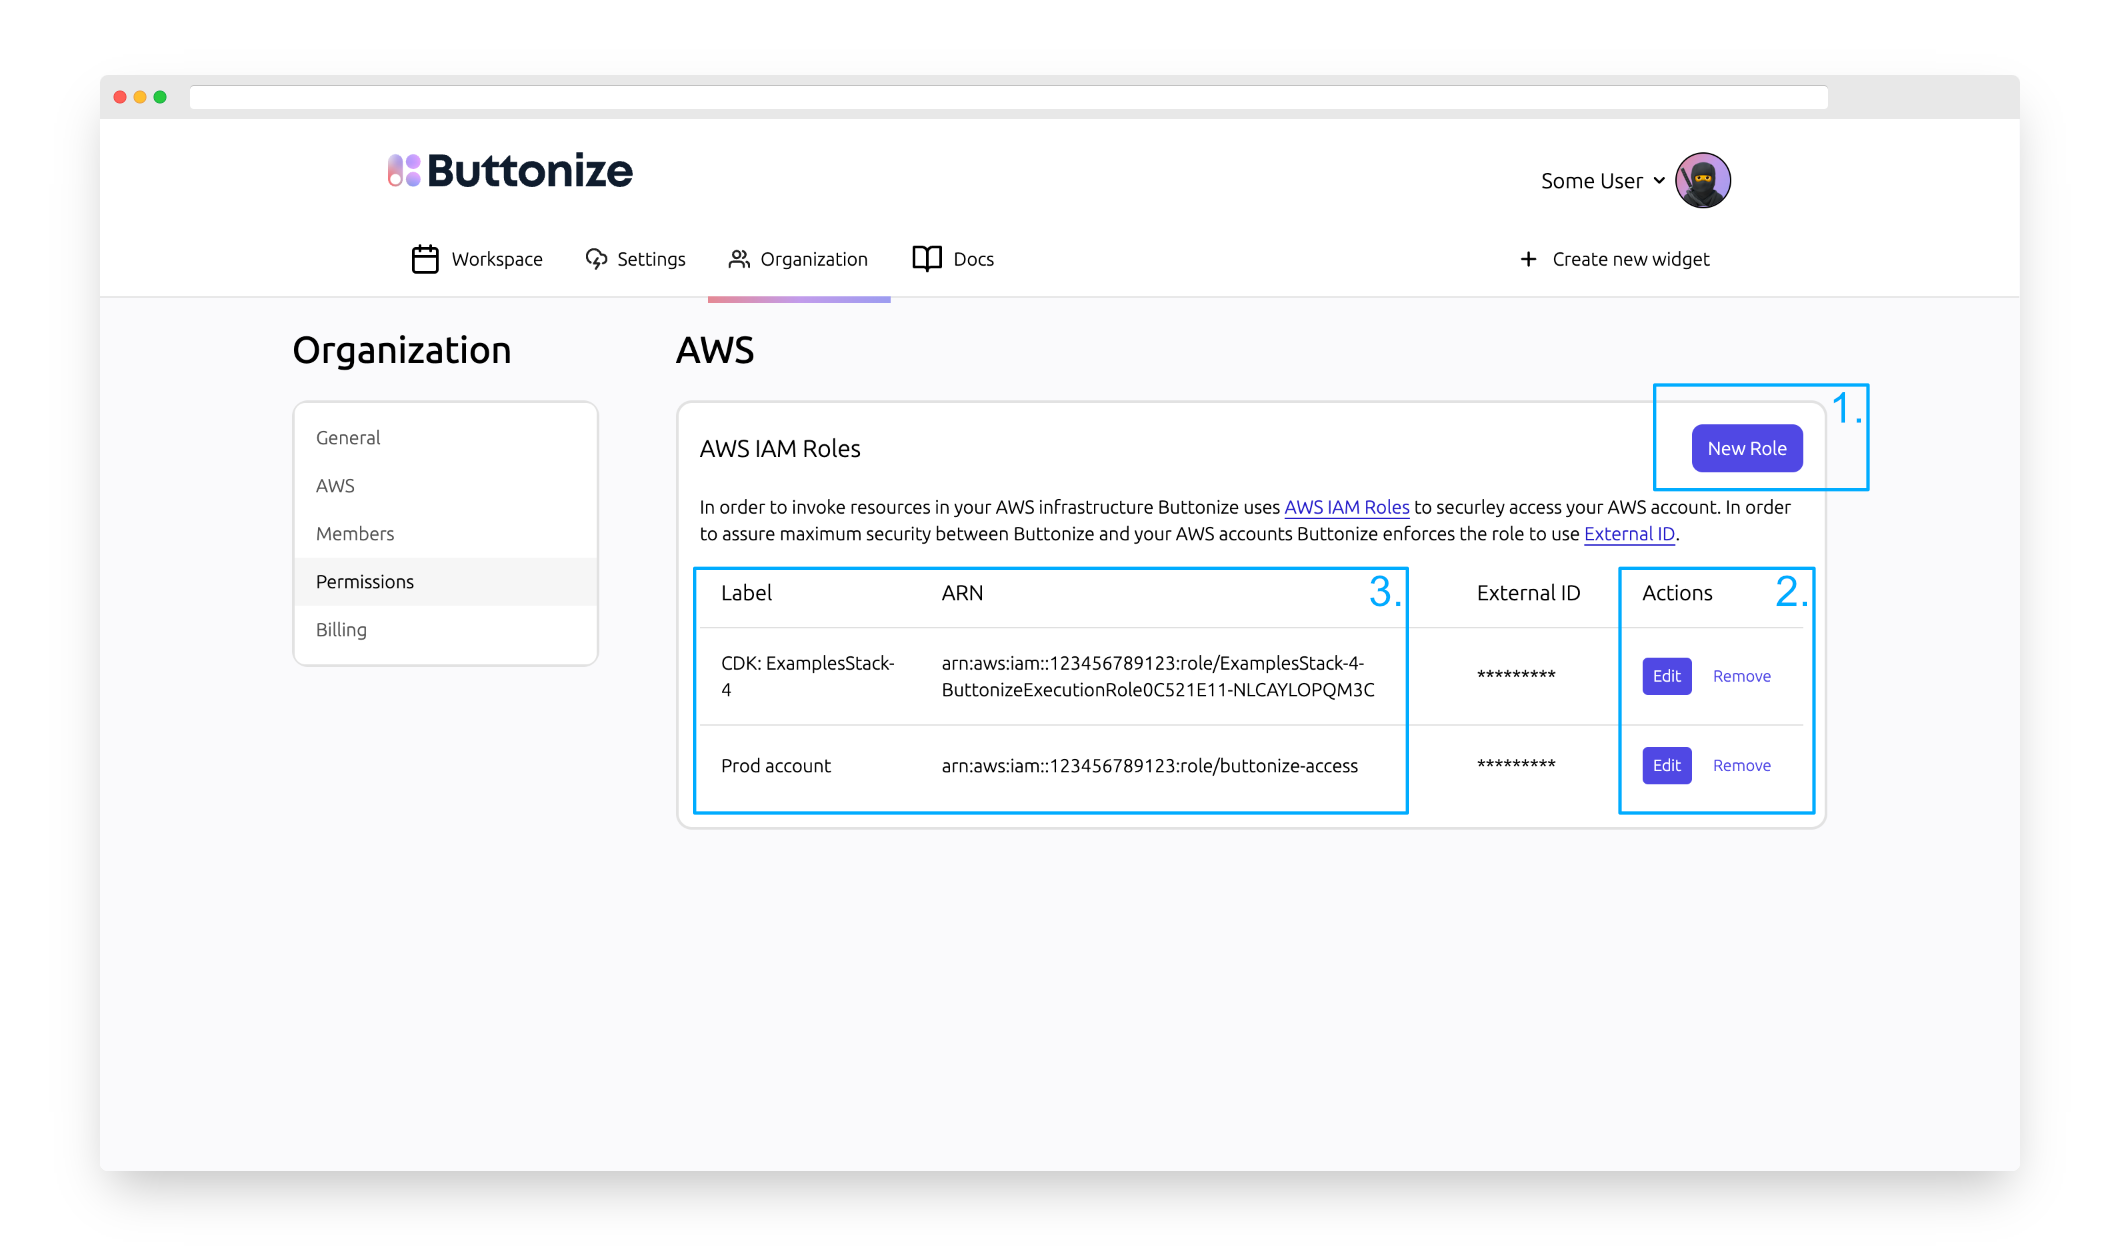
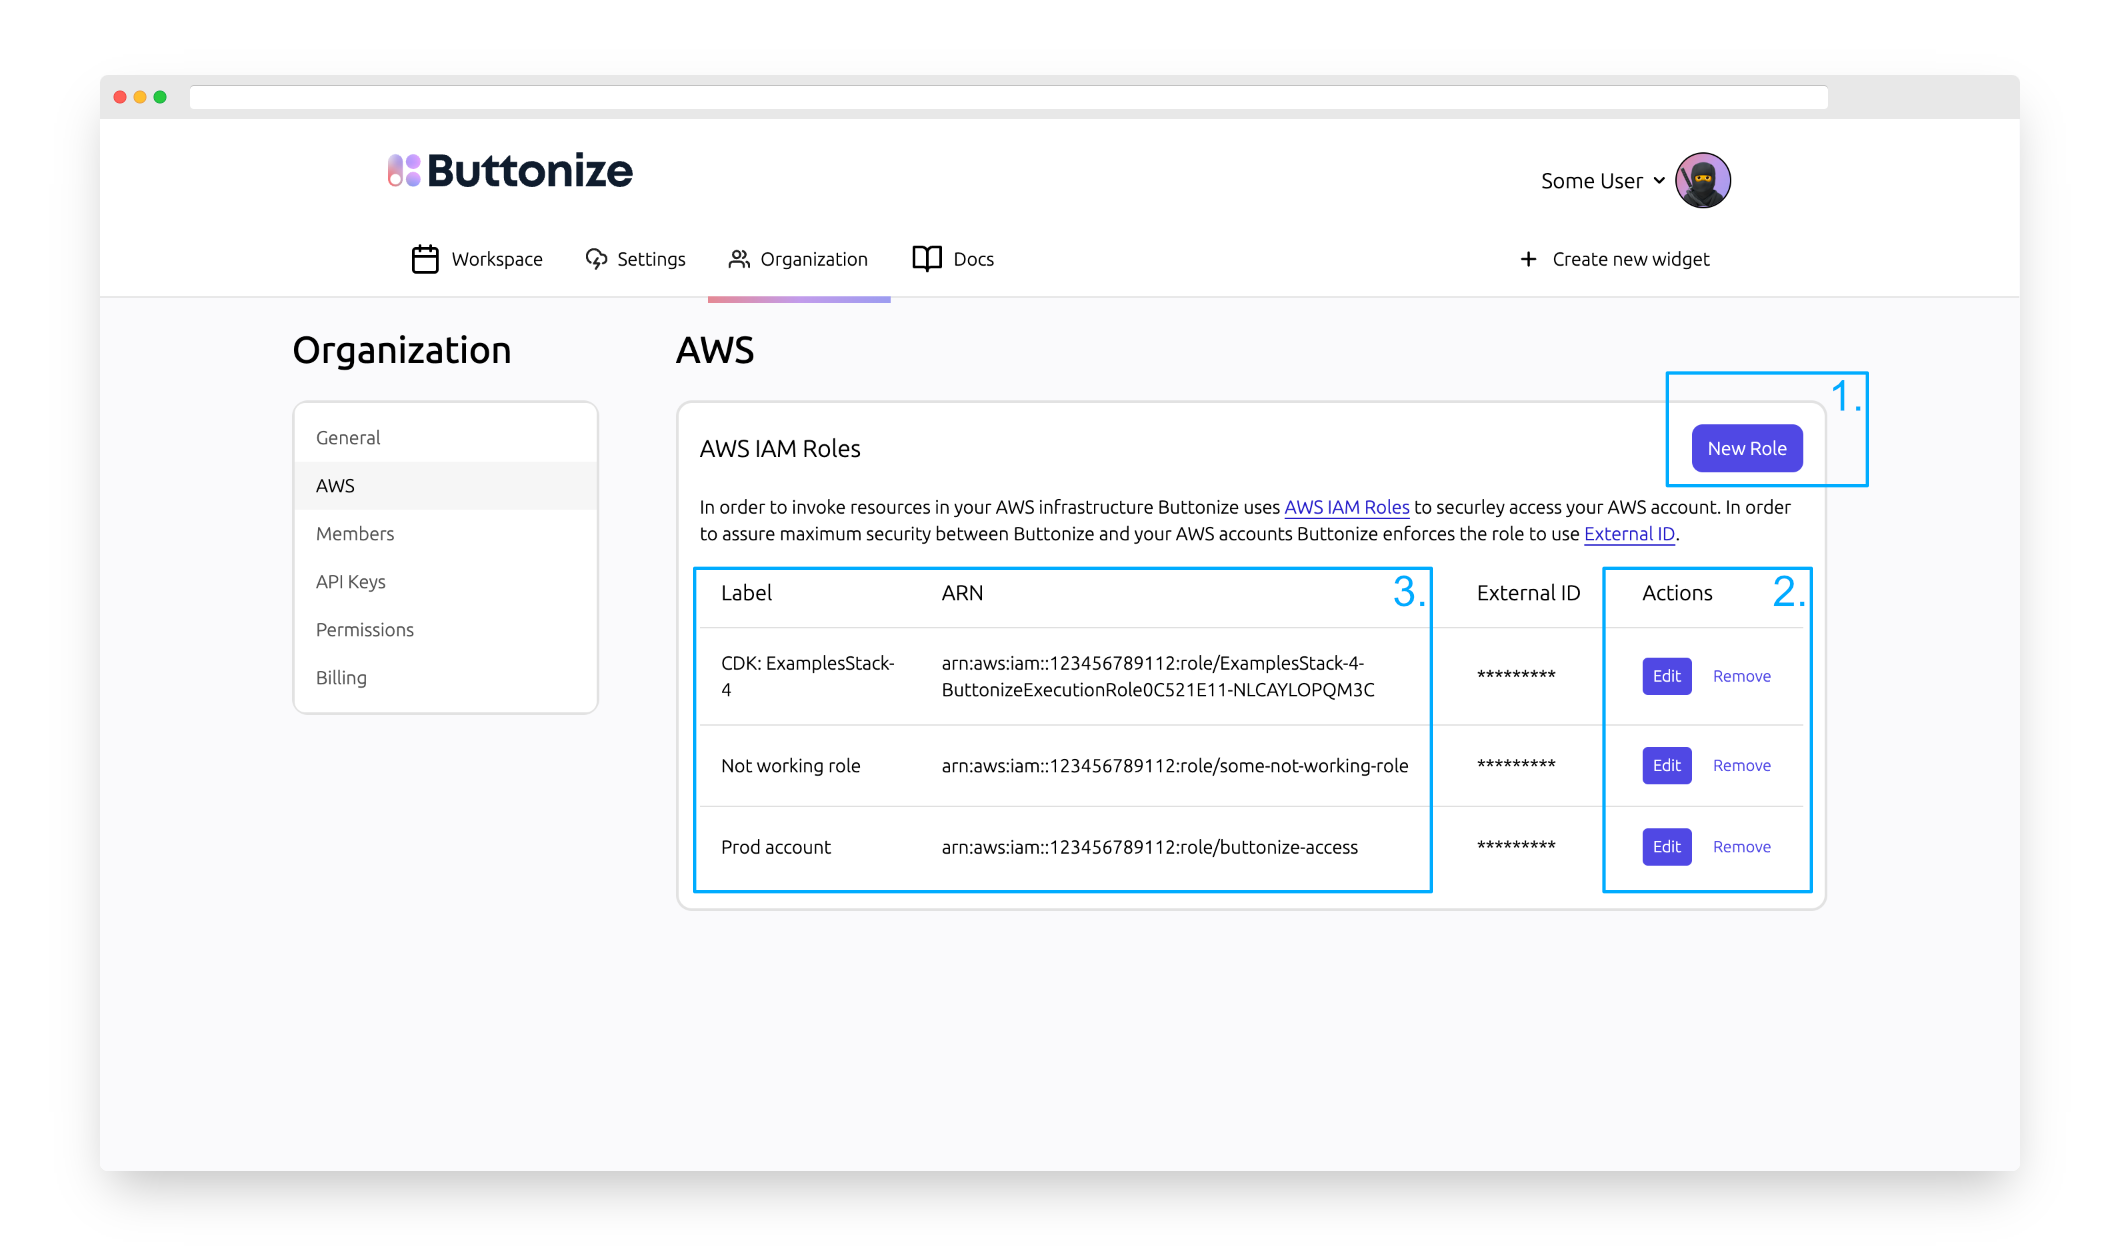
feat: add API keys docs

diff --git a/docs/docs/user-interface/organization.md b/docs/docs/user-interface/organization.md
@@ -8,7 +8,6 @@ description: Create and manage your organization workspace in Buttonize.
 Buttonize uses the widely used concept of grouping resources and users by "organization".
 An organization is usually created per a whole company or business unit. 
 
-
 ## Features
 
 ### General
@@ -21,6 +20,7 @@ An organization is usually created per a whole company or business unit.
 ![General settings](/img/ui/organization/general.png)
 
 ### Members
+
 Big part of Buttonize is collaboration between colleagues which are coding the widgets and those who are using them. You can invite your colleagues by email.
 
 ![Members](/img/ui/organization/members.png)
@@ -97,6 +97,29 @@ Make sure to **always use least privilege principle** when creating AWS IAM role
 5. External ID - External ID must have min length of 8 characters. If you use the CloudFormation template, Buttonize automatically generates External ID for you. Learn more about External ID in AWS IAM [here](https://docs.aws.amazon.com/IAM/latest/UserGuide/id_roles_create_for-user_externalid.html).
 
 ![AWS settings - choice](/img/ui/organization/aws-new.png)
+
+### API Keys
+
+In order to get working Buttonize IaC plugins, you need to create Buttonize API Keys.
+
+:::tip
+
+Learn more about Buttonize AWS CDK Constructs [here](../infrastructure-as-code/aws-cdk/quick-start.md).
+
+:::
+
+![API Keys](/img/ui/organization/api-keys.png)
+
+Once you submit API key creation form, you will see full the **secret** API key. 
+
+:::caution
+
+Once you close the dialog, you won&apos;t be able to see the full API key again. Make sure to store it on a secure place.
+
+:::
+
+![API Keys Popup](/img/ui/organization/api-keys-popup.png)
+
 
 ### Permissions
 
